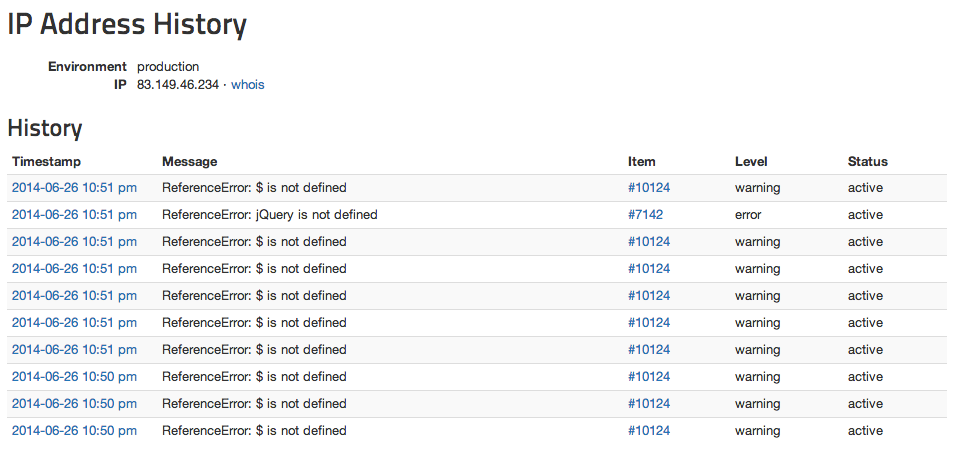
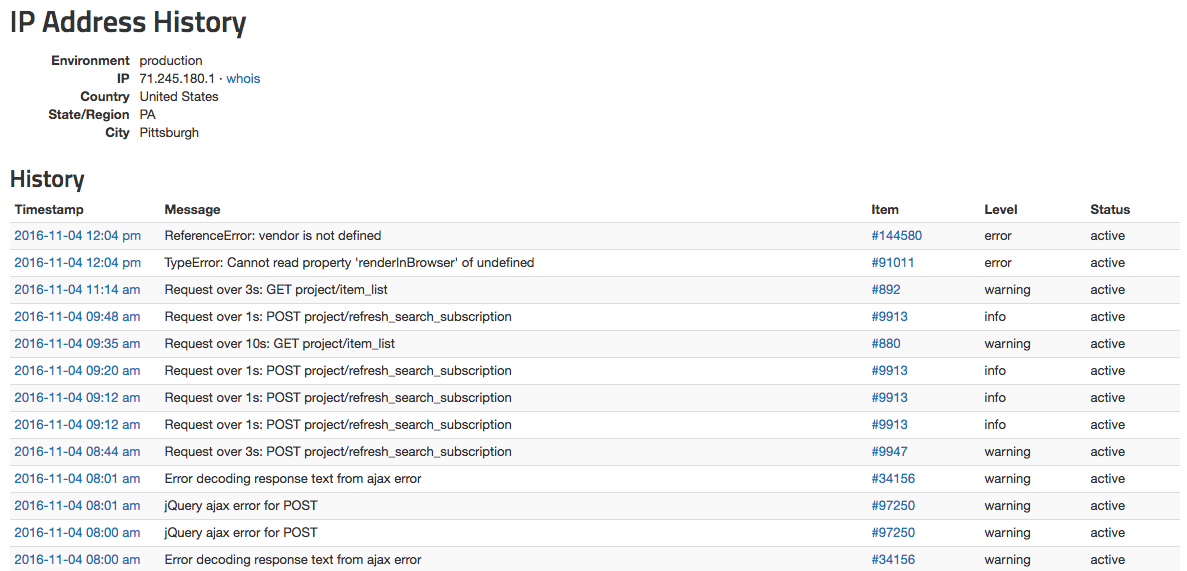
show geoip in ip history docs

diff --git a/guides/ip-history.md b/guides/ip-history.md
@@ -8,4 +8,4 @@ You'll be able to see all events affecting that IP:
 
 ![](../images/guides/ip-history/ip-history2.png)
 
-There's also a handy link to the WHOIS record for the IP.
+There's also geolocation information (when available) and a handy link to the WHOIS record for the IP.
